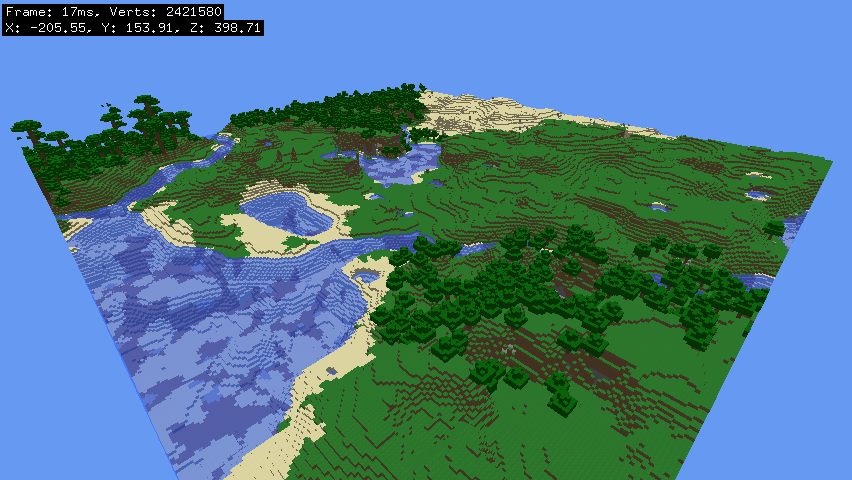
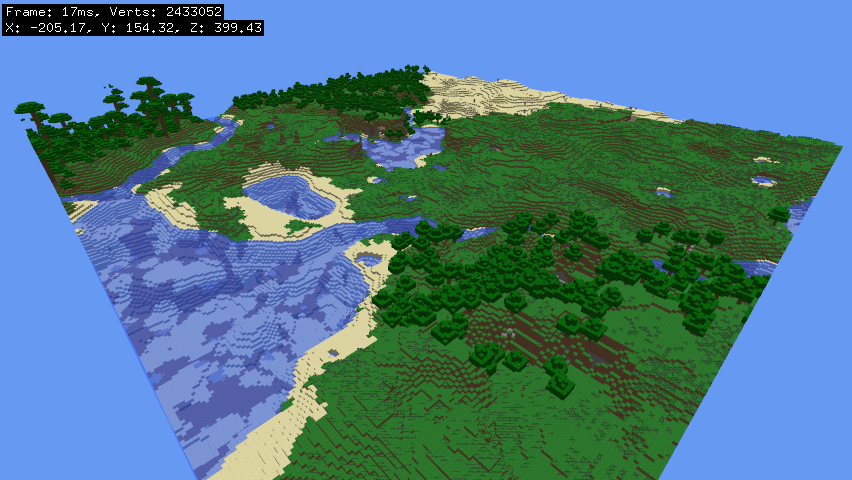
add multisampling + mipmaps for the hell of it

diff --git a/src/gfx.c b/src/gfx.c
@@ -68,11 +68,16 @@ void loadTex(void){
 	glTexParameteri(GL_TEXTURE_2D, GL_TEXTURE_MAG_FILTER, GL_NEAREST);
 	glTexParameteri(GL_TEXTURE_2D, GL_TEXTURE_WRAP_S, GL_CLAMP_TO_EDGE);
 	glTexParameteri(GL_TEXTURE_2D, GL_TEXTURE_WRAP_T, GL_CLAMP_TO_EDGE);
+	
+	glTexParameteri(GL_TEXTURE_2D, GL_TEXTURE_MAX_LEVEL, 4);
 	glTexParameteri(GL_TEXTURE_2D, GL_TEXTURE_MAX_LOD, 4);
+	
+	glTexParameterf(GL_TEXTURE_2D, GL_TEXTURE_MAX_ANISOTROPY_EXT, 0.0f);
 
 	glTexImage2D(GL_TEXTURE_2D, 0, GL_RGBA, surface->w, surface->h, 0, 
 		GL_RGBA, GL_UNSIGNED_BYTE, surface->pixels);
 
+	glHint(GL_GENERATE_MIPMAP_HINT, GL_NICEST);
 	glGenerateMipmap(GL_TEXTURE_2D);
 
 	SDL_FreeSurface(surface);
@@ -146,30 +151,30 @@ void addBillBoard(int x, int y, int z, unsigned char id){
 
 	uint8_t tex = blocks[id].tex_side;
 
-	struct vx v[16] = {
+	struct vx v[] = {
 		{ x  , y+1, z  , tex, r, g, b },
 		{ x+1, y+1, z+1, tex, r, g, b },
 		{ x+1, y  , z+1, tex, r, g, b },
 		{ x  , y  , z  , tex, r, g, b },
-		
-		{ x  , y  , z  , tex, r, g, b },
-		{ x+1, y  , z+1, tex, r, g, b },
+
 		{ x+1, y+1, z+1, tex, r, g, b },
 		{ x  , y+1, z  , tex, r, g, b },
-		
+		{ x  , y  , z  , tex, r, g, b },
+		{ x+1, y  , z+1, tex, r, g, b },
+
 		{ x+1, y+1, z  , tex, r, g, b },
 		{ x  , y+1, z+1, tex, r, g, b },
 		{ x  , y  , z+1, tex, r, g, b },
 		{ x+1, y  , z  , tex, r, g, b },
-		
-		{ x+1, y  , z  , tex, r, g, b },
-		{ x  , y  , z+1, tex, r, g, b },
+
 		{ x  , y+1, z+1, tex, r, g, b },
 		{ x+1, y+1, z  , tex, r, g, b },
+		{ x+1, y  , z  , tex, r, g, b },
+		{ x  , y  , z+1, tex, r, g, b },
 	};
 
-	memcpy(chunks[cur].verts + chunks[cur].count, &v, 16 * sizeof(struct vx));
-	chunks[cur].count += 16;
+	memcpy(chunks[cur].verts + chunks[cur].count, &v, sizeof(v));
+	chunks[cur].count += (sizeof(v) / sizeof(*v));
 }
 
 void genlut(void){
@@ -191,8 +196,11 @@ void gfx_init(void){
 	putenv("SDL_MOUSE_RELATIVE=0");
 	SDL_GL_SetAttribute(SDL_GL_DOUBLEBUFFER, 1);
 	SDL_GL_SetAttribute(SDL_GL_SWAP_CONTROL, 1);
+	SDL_GL_SetAttribute(SDL_GL_MULTISAMPLEBUFFERS, 1);
+	SDL_GL_SetAttribute(SDL_GL_MULTISAMPLESAMPLES, 4);
 
 	SDL_SetVideoMode(WIN_W, WIN_H, 32, SDL_OPENGL);
+	SDL_WM_SetCaption("CMC", 0);
 	
 	//glMatrixMode(GL_TEXTURE);
 	//glLoadIdentity();
@@ -224,11 +232,7 @@ void gfx_init(void){
 	glBlendFunc(GL_SRC_ALPHA, GL_ONE_MINUS_SRC_ALPHA);
 	
 	glEnable(GL_ALPHA_TEST);
-	glAlphaFunc(GL_GEQUAL, 0.9);
-		
-	//glEnableClientState(GL_VERTEX_ARRAY);
-	//glEnableClientState(GL_TEXTURE_COORD_ARRAY);
-	//glEnableClientState(GL_COLOR_ARRAY);
+	glAlphaFunc(GL_GEQUAL, 0.70);
 	
 	SDL_ShowCursor(SDL_DISABLE);
 	SDL_WM_GrabInput(SDL_ENABLE);

diff --git a/src/blocks.c b/src/blocks.c
@@ -28,8 +28,8 @@ void block_get_colors(uint8_t id, uint8_t side, float* r, float* g, float* b){
 
 		case B_SHRUB: {
 			*r = 0.5f;
-			*g = 1.0f;
-			*b = 0.6f;
+			*g = 0.9f;
+			*b = 0.5f;
 		} break;
 
 		default: {
